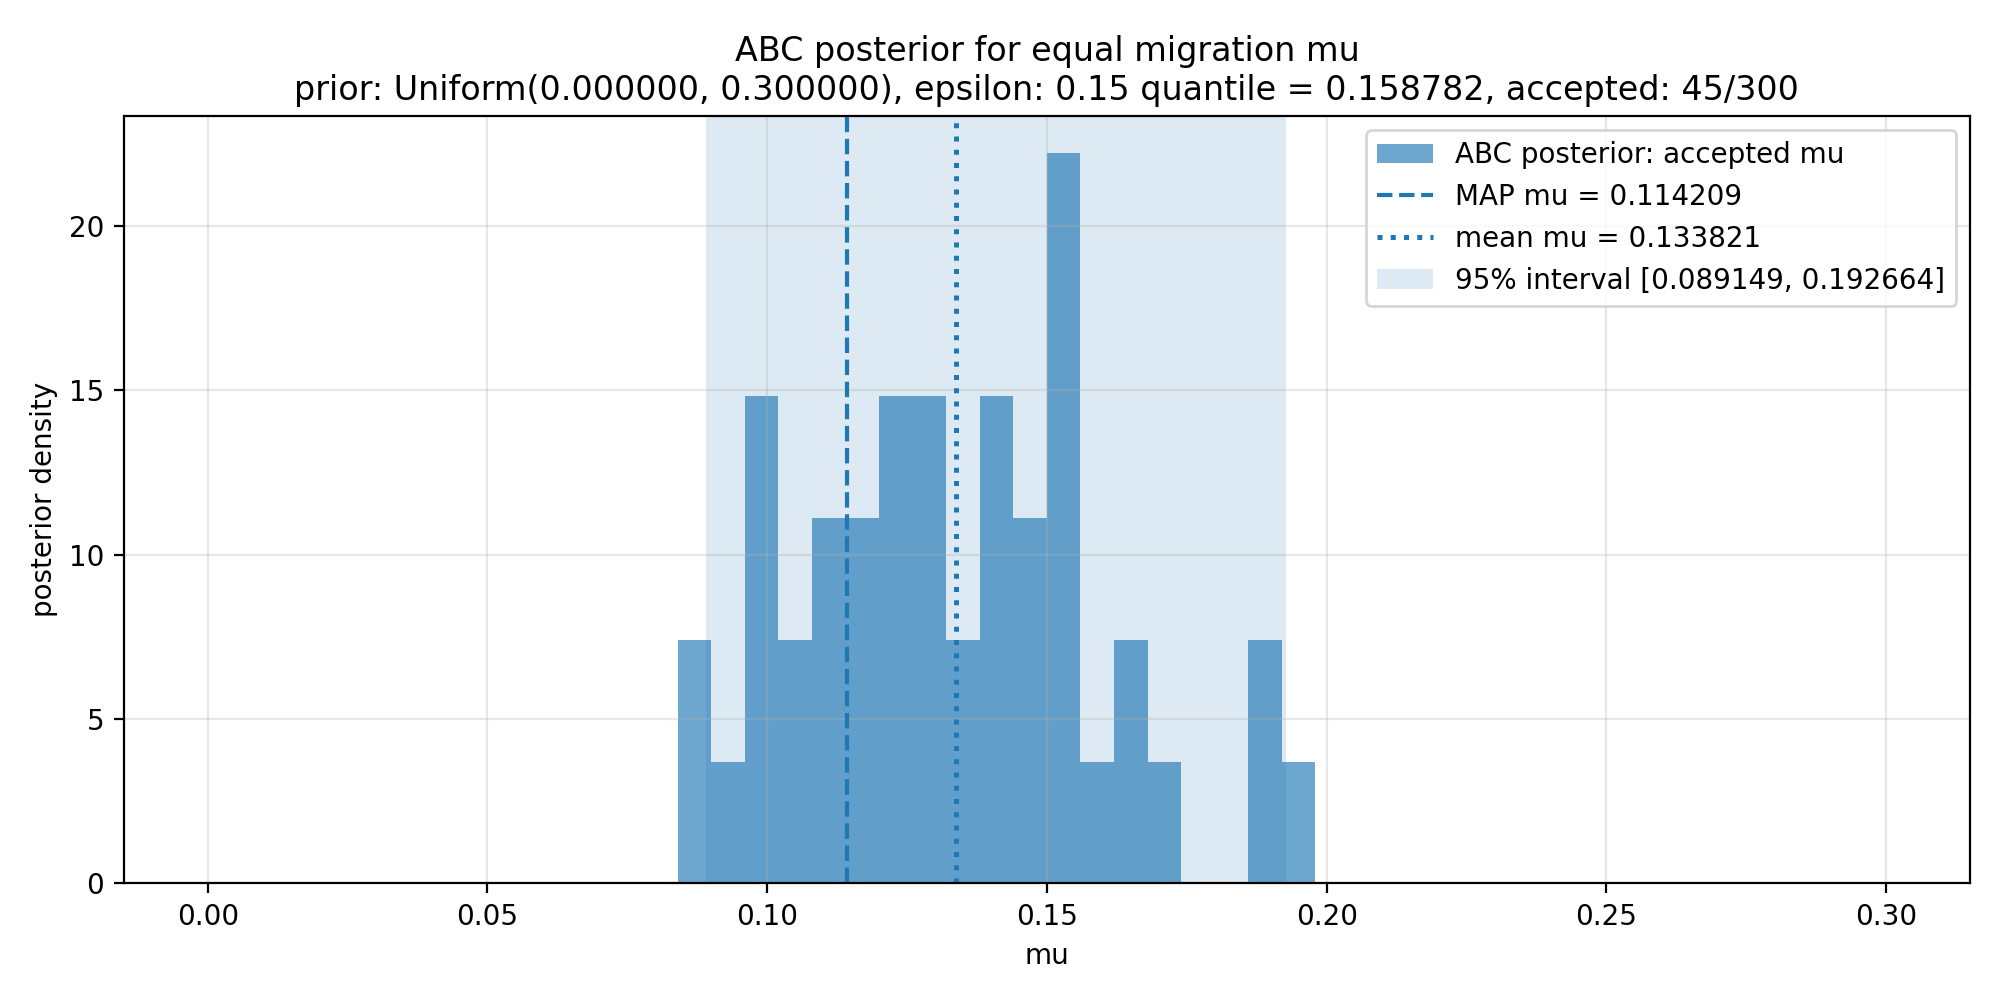
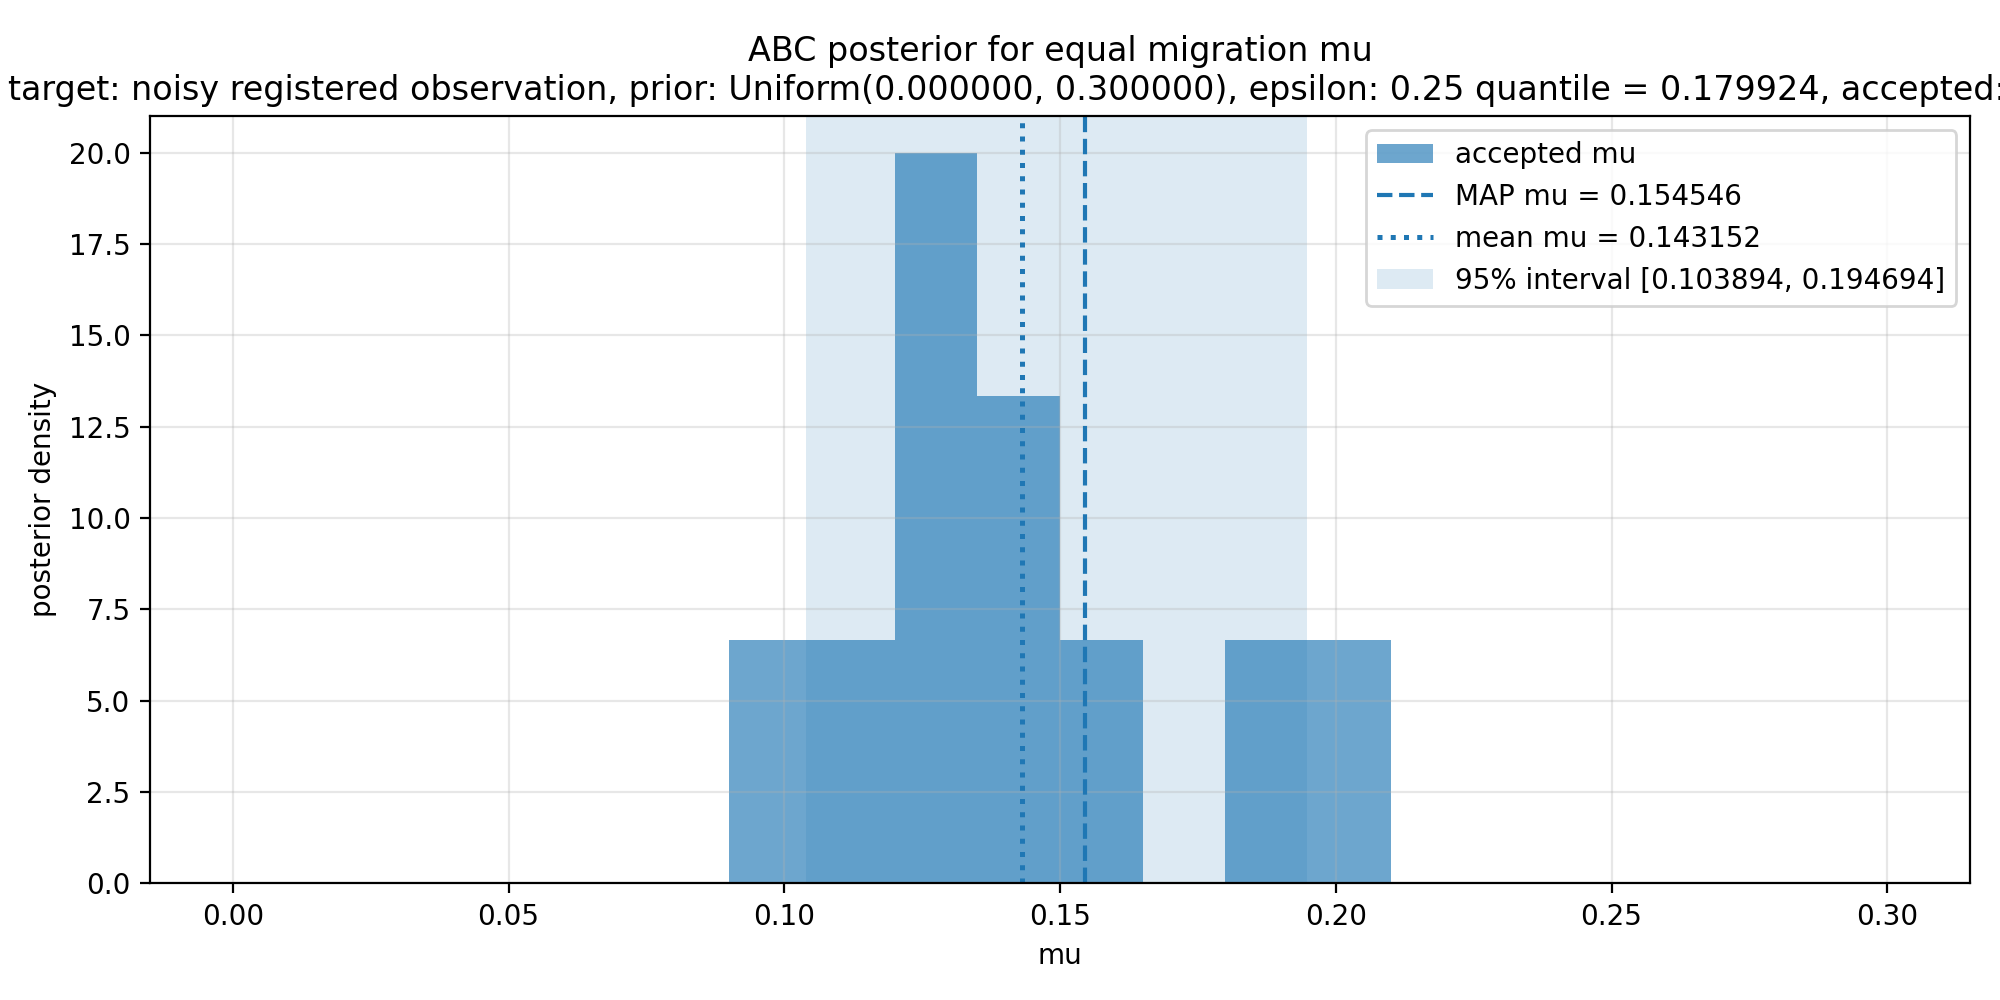
teta

diff --git a/app.py b/app.py
@@ -1621,7 +1621,7 @@ style.configure("Treeview", rowheight=24)
 settings_frame = ttk.LabelFrame(root, text="Сетка поиска mu")
 settings_frame.pack(fill="x", padx=10, pady=5)
 
-mu_min_entry = _make_entry(settings_frame, 0, 0, "min mu", "0.001")
+mu_min_entry = _make_entry(settings_frame, 0, 0, "min mu", "0.000")
 mu_max_entry = _make_entry(settings_frame, 0, 2, "max mu", "0.300")
 steps_entry = _make_entry(settings_frame, 0, 4, "steps", "10")
 
@@ -1638,14 +1638,14 @@ iterations_entry = _make_entry(virus_frame, 2, 0, "iterations", DEFAULT_VGSIM_PA
 sample_size_entry = _make_entry(virus_frame, 2, 2, "sample size", DEFAULT_VGSIM_PARAMS["sample_size"], width=14)
 method_entry = _make_entry(virus_frame, 2, 4, "method", DEFAULT_VGSIM_PARAMS["method"])
 
-obs_frame = ttk.LabelFrame(root, text="Параметры создания тестового наблюдения VGsim")
+obs_frame = ttk.LabelFrame(root, text="Параметры миграции VGsim")
 obs_frame.pack(fill="x", padx=10, pady=5)
 
 obs_mu_ab_entry = _make_entry(obs_frame, 0, 0, "obs mu_AB", "0.100")
 obs_mu_ba_entry = _make_entry(obs_frame, 0, 2, "obs mu_BA", "0.100")
 obs_seed_entry = _make_entry(obs_frame, 0, 4, "obs seed", "777")
 
-noise_frame = ttk.LabelFrame(root, text="Модель наблюдения: неполная регистрация")
+noise_frame = ttk.LabelFrame(root, text="Симуляция неполной регистрации")
 noise_frame.pack(fill="x", padx=10, pady=5)
 
 noise_enabled_var = tk.BooleanVar(value=False)
@@ -1679,16 +1679,16 @@ distance_frame = ttk.LabelFrame(root, text="Параметры distance")
 distance_frame.pack(fill="x", padx=10, pady=5)
 
 trajectory_points_entry = _make_entry(distance_frame, 0, 0, "trajectory points", "100")
-grid_start_entry = _make_entry(distance_frame, 0, 2, "grid start", "0.00")
-grid_end_entry = _make_entry(distance_frame, 0, 4, "grid end", "1.00")
+grid_start_entry = _make_entry(distance_frame, 0, 2, "grid start (%)", "0.00")
+grid_end_entry = _make_entry(distance_frame, 0, 4, "grid end (%)", "1.00")
 trajectory_weight_entry = _make_entry(distance_frame, 1, 0, "trajectory weight", "1.0")
 aggregate_weight_entry = _make_entry(distance_frame, 1, 2, "aggregate weight", "0.75")
 time_weight_entry = _make_entry(distance_frame, 1, 4, "time weight", "1.0")
 time_extra_weight_entry = _make_entry(distance_frame, 1, 6, "time extra weight", "3.0")
-time_tolerance_entry = _make_entry(distance_frame, 2, 0, "time tolerance", "0.10")
+time_tolerance_entry = _make_entry(distance_frame, 2, 0, "time tolerance (%)", "0.10")
 migration_weight_entry = _make_entry(distance_frame, 2, 2, "migration event weight", "0.0")
 
-fit_frame = ttk.LabelFrame(root, text="Параметры refined fit")
+fit_frame = ttk.LabelFrame(root, text="Параметры поиска")
 fit_frame.pack(fill="x", padx=10, pady=5)
 
 top_k_entry = _make_entry(fit_frame, 0, 0, "top_k", "3")
@@ -1708,15 +1708,18 @@ posterior_bins_entry = _make_entry(posterior_frame, 0, 6, "bins", "12")
 actions_frame = ttk.LabelFrame(root, text="Действия")
 actions_frame.pack(fill="x", padx=10, pady=5)
 
-ttk.Button(actions_frame, text="Просимулировать", command=create_observation, width=34).grid(row=0, column=0, padx=5, pady=4)
-ttk.Button(actions_frame, text="Подобрать equal mu", command=fit_equal_mu, width=34).grid(row=0, column=1, padx=5, pady=4)
-ttk.Button(actions_frame, text="Подобрать unequal mu", command=fit_unequal_mu, width=34).grid(row=0, column=3, padx=5, pady=4)
-ttk.Button(actions_frame, text="Подобрать unequal fast", command=fit_unequal_mu_fast, width=34).grid(row=0, column=4, padx=5, pady=4)
-ttk.Button(actions_frame, text="Просимулировать + equal", command=create_observation_and_fit, width=34).grid(row=0, column=2, padx=5, pady=4)
-ttk.Button(actions_frame, text="Исходный граф", command=show_observation_plot, width=34).grid(row=1, column=0, padx=5, pady=4)
-ttk.Button(actions_frame, text="Подобранный граф", command=show_best_fit_plot, width=34).grid(row=1, column=1, padx=5, pady=4)
-ttk.Button(actions_frame, text="ABC posterior по mu", command=show_abc_posterior_distribution, width=34).grid(row=1, column=2, padx=5, pady=4)
-ttk.Button(actions_frame, text="ABC posterior unequal", command=show_abc_unequal_posterior_distribution, width=34).grid(row=1, column=3, padx=5, pady=4)
+for col in range(4):
+    actions_frame.columnconfigure(col, weight=1)
+
+ttk.Button(actions_frame, text="Просимулировать", command=create_observation, width=34).grid(row=0, column=0, padx=5, pady=4, sticky="ew")
+ttk.Button(actions_frame, text="Подобрать equal mu", command=fit_equal_mu, width=34).grid(row=0, column=1, padx=5, pady=4, sticky="ew")
+ttk.Button(actions_frame, text="Подобрать unequal mu", command=fit_unequal_mu, width=34).grid(row=0, column=2, padx=5, pady=4, sticky="ew")
+ttk.Button(actions_frame, text="Подобрать unequal fast", command=fit_unequal_mu_fast, width=34).grid(row=0, column=3, padx=5, pady=4, sticky="ew")
+
+ttk.Button(actions_frame, text="Исходный граф", command=show_observation_plot, width=34).grid(row=1, column=0, padx=5, pady=4, sticky="ew")
+ttk.Button(actions_frame, text="Подобранный граф", command=show_best_fit_plot, width=34).grid(row=1, column=1, padx=5, pady=4, sticky="ew")
+ttk.Button(actions_frame, text="ABC posterior equal", command=show_abc_posterior_distribution, width=34).grid(row=1, column=2, padx=5, pady=4, sticky="ew")
+ttk.Button(actions_frame, text="ABC posterior unequal", command=show_abc_unequal_posterior_distribution, width=34).grid(row=1, column=3, padx=5, pady=4, sticky="ew")
 
 status_label = ttk.Label(root, text="Готово.", anchor="w")
 status_label.pack(fill="x", padx=10, pady=5)
